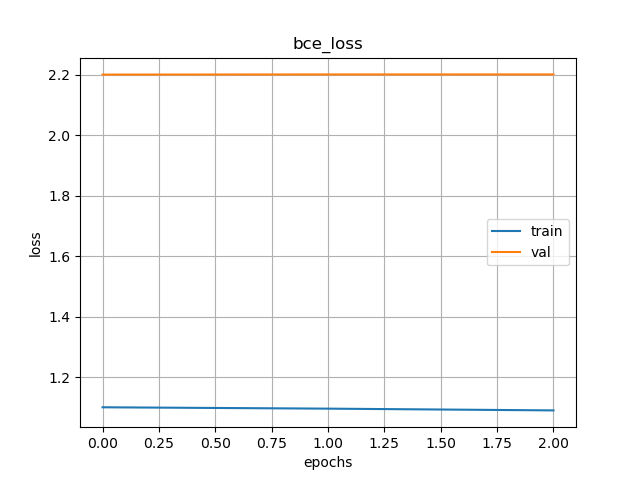
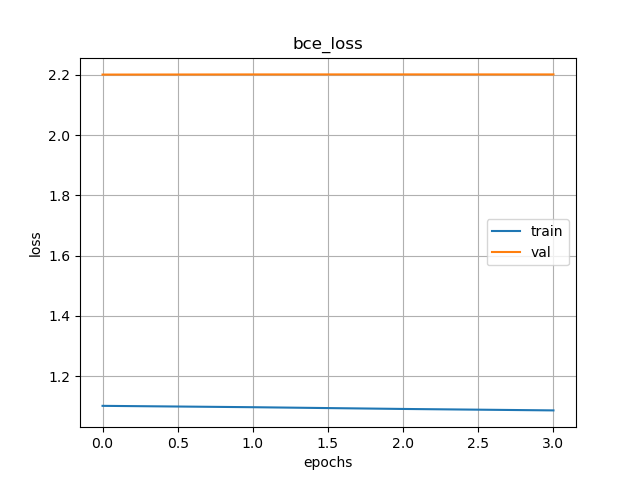
no comment

diff --git a/train.py b/train.py
@@ -58,7 +58,6 @@ def loop(model, loader, optimizer, criterion, args, mode='train'):
         total_loss_list.append(log_dict['total_loss'])
         # pbar.set_postfix({**metrics, **log_dict})
         pbar.set_postfix(log_dict, refresh=idx%10==0)
-        break
     loss_dct = {f'{mode}_ssim_loss': round(np.mean(ssim_loss_list), 4),
                 f'{mode}_dice_loss': round(np.mean(dice_loss_list), 4),
                 f'{mode}_bce_loss': round(np.mean(bce_loss_list), 4),
